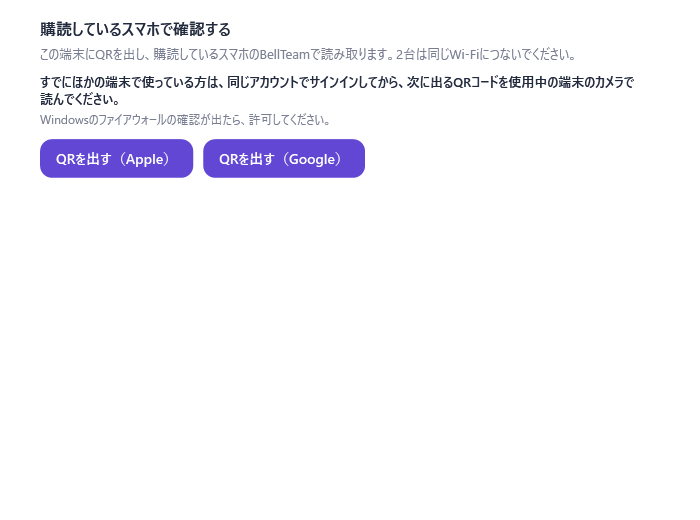
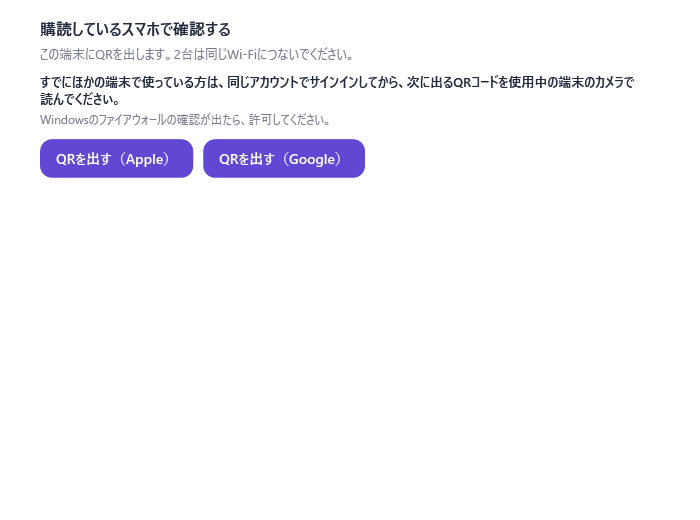
Windows 0.8.5: the local-form lead says 'この端末にQRを出します。' (the phone's own camera reads the join link)
Core LocalFormText.Lead per Tronie; screenshots redrawn.

Changed region(s): [[0.21, 0.0923, 0.81, 0.1231]]

diff --git a/windows/BellTeam.Tests/LocalFormTests.cs b/windows/BellTeam.Tests/LocalFormTests.cs
@@ -13,7 +13,7 @@ public sealed class LocalFormTests
     {
         Assert.Equal(("BellTeamの購読", "購読はまだありません。", "購読しているスマホで確認する", "QRを出す（Google）", "QRを出す（Apple）", "確認用のQRコード", "やめる", "購読を確認しました。"),
             (LocalFormText.CardTitle, LocalFormText.StatusUnpaid, LocalFormText.Title, LocalFormText.Google, LocalFormText.Apple, LocalFormText.QrLabel, LocalFormText.Cancel, LocalFormText.PaidOk));
-        Assert.Equal("この端末にQRを出し、購読しているスマホのBellTeamで読み取ります。2台は同じWi-Fiにつないでください。", LocalFormText.Lead);
+        Assert.Equal("この端末にQRを出します。2台は同じWi-Fiにつないでください。", LocalFormText.Lead);
         Assert.Equal("購読の期間が終わっています。新しいQRを出してください。", LocalFormText.PeriodEnded);
         Assert.Equal("購読中です。", LocalFormText.Status(null));
         var end = new DateTimeOffset(2026, 12, 23, 12, 0, 0, TimeSpan.Zero);

diff --git a/windows/BellTeam.Core/LocalForm.cs b/windows/BellTeam.Core/LocalForm.cs
@@ -39,7 +39,7 @@ public static class LocalFormText
     public static string Paid(DateTimeOffset until) => Status(until);
     public const string PaidOk = "購読を確認しました。";
     public const string Title = "購読しているスマホで確認する";
-    public const string Lead = "この端末にQRを出し、購読しているスマホのBellTeamで読み取ります。2台は同じWi-Fiにつないでください。";
+    public const string Lead = "この端末にQRを出します。2台は同じWi-Fiにつないでください。";
     public const string Google = "QRを出す（Google）";
     public const string Apple = "QRを出す（Apple）";
     public const string QrLabel = "確認用のQRコード";
